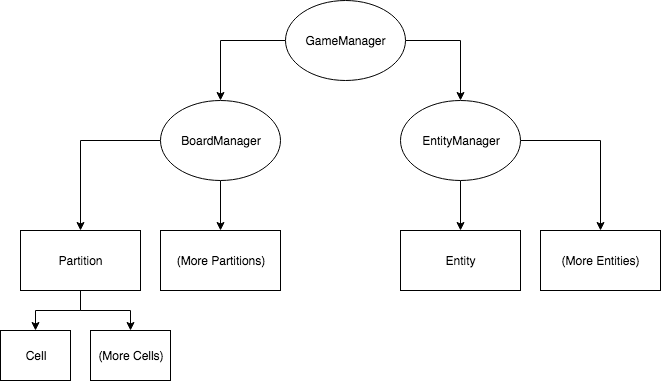
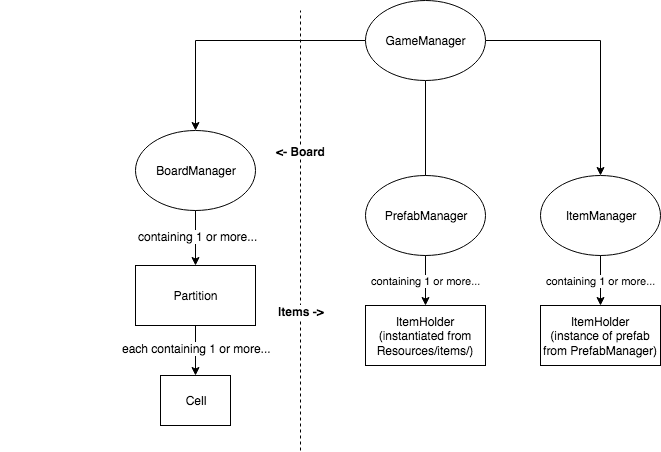
Updating level structure

diff --git a/docs/level/README.md b/docs/level/README.md
@@ -12,8 +12,9 @@ When a player selects a mural to hack, they've started a new _Level_.
 
 When a new White Mask level starts, it runs through the following procedure in GameManager’s `Start` function:
 
-1.  Find the Keep Alive object in the scene. Save its level as the level to build.
-    -   If there is no Keep Alive object, return to the Main Menu.
+1.  Load all prefabs in the game using the `prefabManager`
 1.  Instantiate each Partition in the level.
 1.  For each Partition…
     -   ...instantiate each Cell.
+
+## TODO: document item creation
